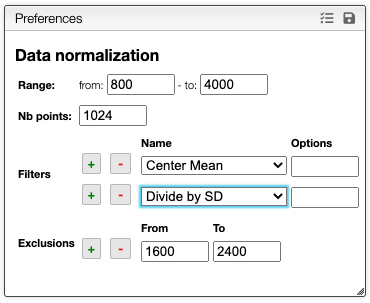
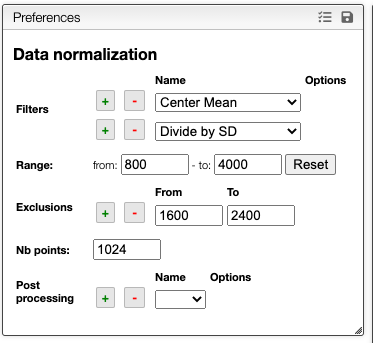
fix: documentation on data normalization

Changed region(s): [[0.0, 0.0, 1.0, 1.0]]

diff --git a/src/book/spectra/mining/common/normalization/README.md b/src/book/spectra/mining/common/normalization/README.md
@@ -1,35 +1,54 @@
 # Data normalization
 
-In order to compare spectra:
-- to select the representative part of the spectra that is expected to be important for the analysis
-- to remove large peaks not characteristic of the sample (like water in NMR spectra) that could interfere with the analysis
-- to reduce the number of points in order to accelerate the analysis
-- to preprocess the data in order to reduce the impact of sample preparation or experimental artifacts
+In order to compare spectra it is required to create a matrix. In this matrix each row corresponds to a spectrum while the column are the various values for a specific X. To create this matrix we apply various normalization methods that consist to:
+
+- preprocess the data in order to reduce the impact of sample preparation or experimental artifacts using various filters
+- select the representative part of the spectra that is expected to be important for the analysis
+- remove large peaks not characteristic of the sample (like water in NMR spectra) that could interfere with the analysis
+- reduce the number of points in order to accelerate the analysis
+- apply post-processing algorithm allowing to normalize
 
 <img src="images/preferences.png">
-
-## Selecting the range
-
-The data normalization process will select equidistant `Nb points` between the `From` and `To` values.
 
 ## Filters
 
 You may also apply various `Filters` that allows to normalize or transform the data. Among those filters we have:
+
 - Center mean
 - Divide by SD (standard deviation)
 - Rescale: set the min value to 0 and the max value to 1
 - Normalize: set the sum of all the points to 1
 - Align: create a peak picking between `from` / `to` and calculate the mean X value between the `nbPeaks` highest peaks. The spectrum will be moved so that the mean has the `targetX` value.
+- Savitzky-golay: smoothing spectra and calculate derivaties based on the following parameters:
+  - `windowSize`: smoothing window, must be an odd number
+  - `derivative`: enter 0, 1 or 2
+  - `polynomial`: the degree of the polynomial used to calculate SG
+- X function: a function that modifies the X axis based on the `x` parameter. Like for example `log(x)`
+- Y function: a function that modifies the Y axis based on the `y` parameter. Like for example `log10(y+1)`
 
 One classical preprocessing algorithm is [Standard Normal Variate (SNV)](http://wiki.eigenvector.com/index.php?title=Advanced_Preprocessing:_Sample_Normalization#SNV_.28Standard_Normal_Variate.29). This preprocessing can be achieved by selecting the 2 options `Center mean` and `Divide by SD`.
+
+## Selecting the range
+
+Only the information between the `From` and `To` values of the range will be considered.
 
 ## Exclusions
 
 Depending the analysis some region should be removed in order to improve the analysis. For example NMR spectroscopy in water yields to a large peak around 4.5ppm and using exclusion zone it can be removed from the analysis.
 
+## Number of points
+
+The data normalization process will select equidistant `Nb points` between the `From` and `To` values.
+
+## Post-processing filters
+
+Once all the previous filters have been applied we obtain a matrix in which rows represent the normalized spectra and columns represent the intensity of teach spectrum.
+
+Some filters are using the columns for further processing like Probabilistic Quotient Normalization (PQN, [10.1021/ac051632c](https://dx.doi.org/10.1021/ac051632c)).
+
 ## Large dataset
 
-The list of the spectra in the dataset is displayed in the following table: 
+The list of the spectra in the dataset is displayed in the following table:
 
 <img src="images/memory.png">
 
